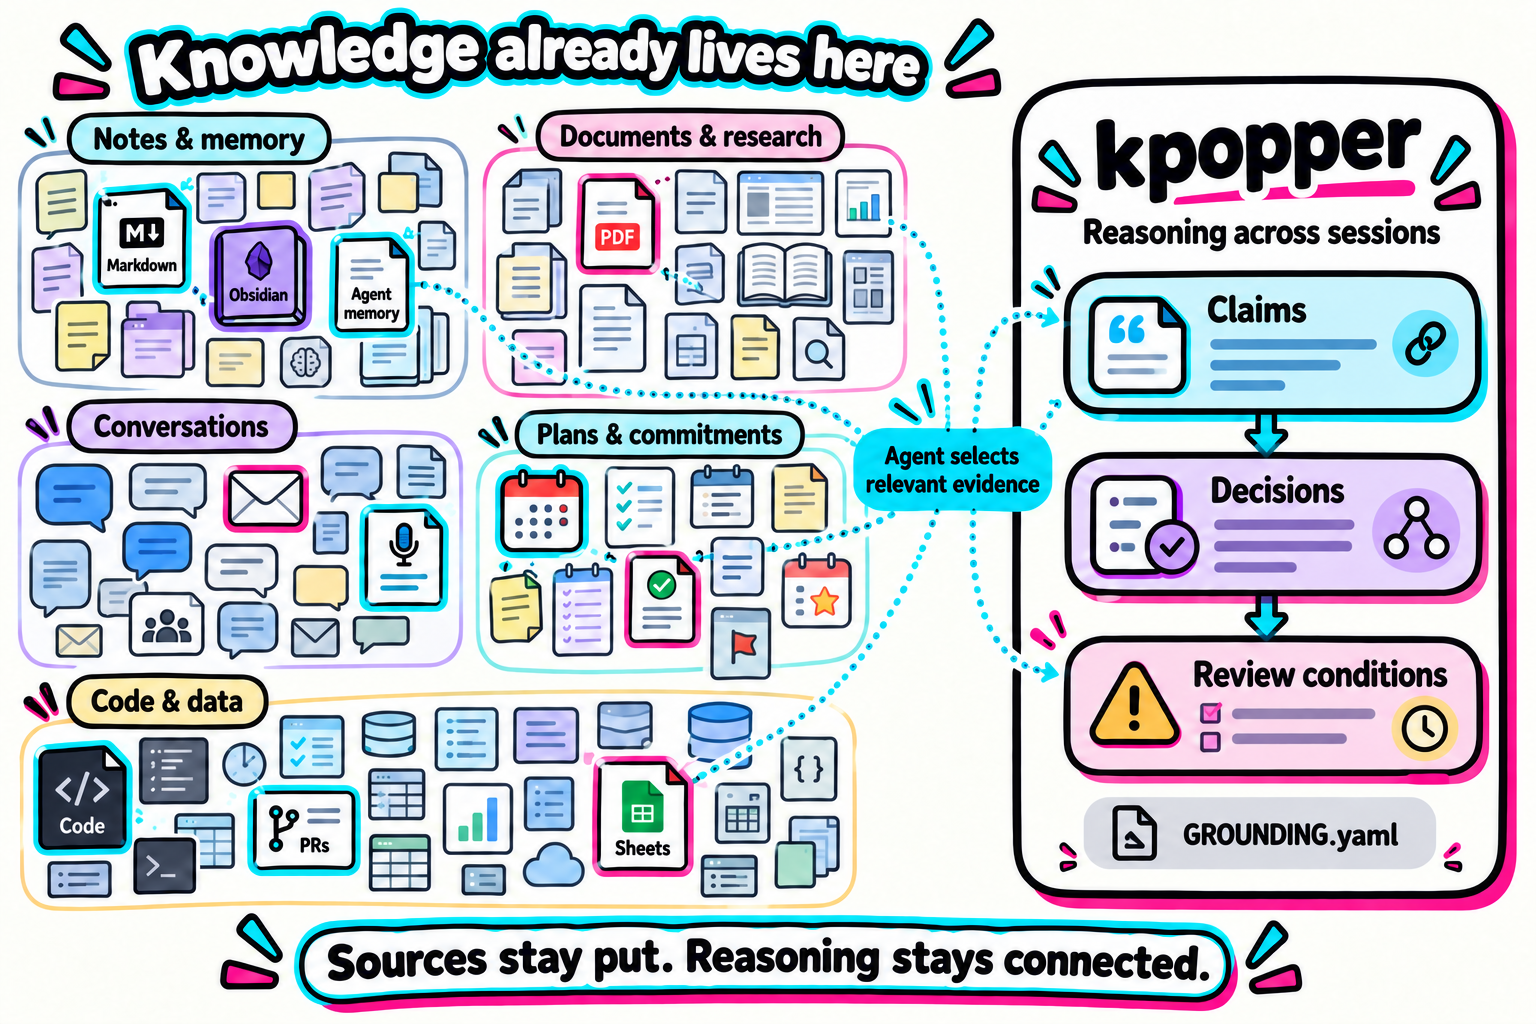
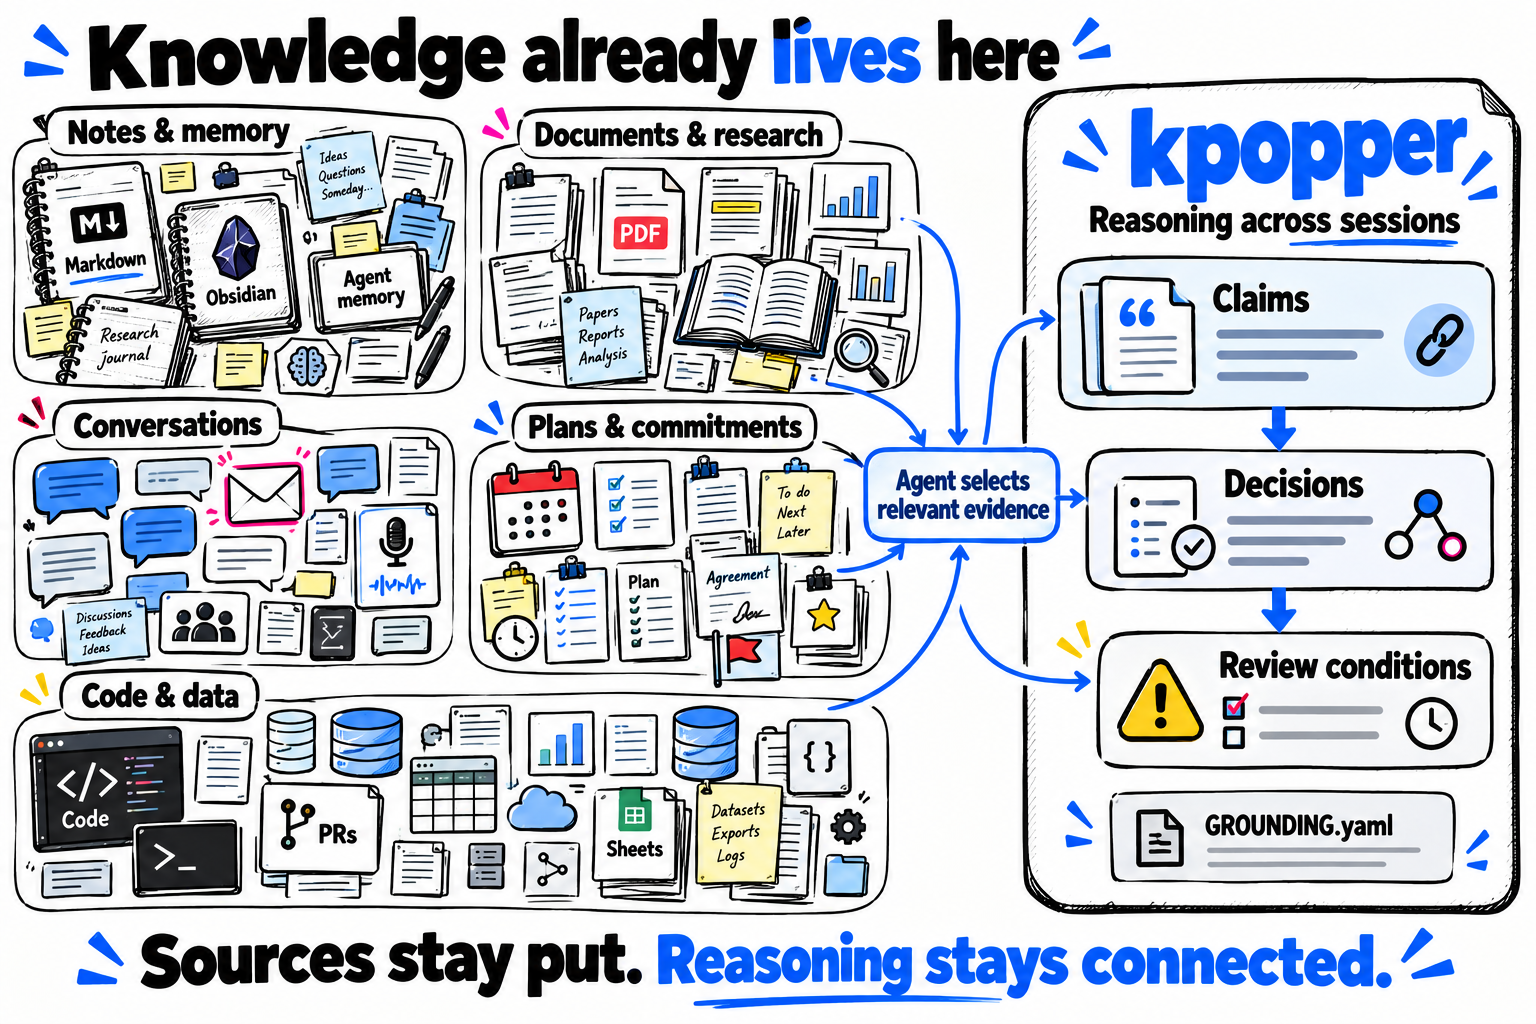
Illustrate more deterministic reasoning and refresh the knowledge map

diff --git a/assets/diagrams/README.md b/assets/diagrams/README.md
@@ -8,10 +8,45 @@ The SVGs are separate, compact **editable schematic references** for inspecting 
 relationships. They are not the source files from which the illustrated PNGs were
 rendered. Exporting a schematic should not overwrite the illustration.
 
-| Overview | Illustration | Editable schematic | What it explains |
+| Overview | Illustration | Supporting reference | What it explains |
 |---|---|---|---|
 | Conversation | [Desktop](conversation-flow.png) · [Phone](conversation-flow-mobile.png) | [Desktop](conversation-flow.svg) · [Phone](conversation-flow-mobile.svg) | An explicit report is processed separately while the main conversation continues; important findings return. |
 | Across time | [Desktop](work-across-time.png) · [Phone](work-across-time-mobile.png) | [Desktop](work-across-time.svg) · [Phone](work-across-time-mobile.svg) | Past grounds, present attention and configured future work stay connected through explicit recording of outcomes. |
+| More deterministic reasoning | [Desktop](reasoning-check.png) · [Phone](reasoning-check-mobile.png) | [Illustrated record](reasoning-check.yaml) | An agent makes the premises and condition explicit; the reader repeatedly evaluates that declared comparison. |
+
+## More deterministic reasoning
+
+The opening illustration shows the path from natural-language statements to a
+recorded comparison. **More** describes the shift of selected reasoning steps into
+explicit, repeatable checks. The agent still interprets sources and chooses the
+relevant premises and condition; the ordinary reader evaluates supported comparisons
+and follows declared dependencies. YAML holds that structure; the checker executes
+the comparison. Arbitrary formulas and prose are not automatically executable.
+
+The [pictured record](reasoning-check.yaml) is a fictional, minimal illustration.
+At its earlier review, both the file retention and the promised window were 30
+days. The recorded retention has since changed to seven; `seen` retains the earlier
+values. Source locators are omitted from this teaching excerpt. The
+[complete download example](../../examples/merge-assumptions/README.md#premature-file-deletion-consistency)
+includes source files, measurement recipes and the two-branch scenario, with longer
+entry names.
+
+From the repository root:
+
+```sh
+python3 scripts/kpopper check assets/diagrams/reasoning-check.yaml
+```
+
+The expected exit status is **1**, with this failed condition:
+
+```text
+FAIL download.promise: wrong_if holds (files.days < link.days) - broken by its own condition
+```
+
+The comparison is `7 < 30`. Repeating the check against the same record produces
+the same result. An accurate comparison still depends on the supplied readings and
+the relevance of the chosen condition. This is a demonstration of repeatable checking,
+not an evaluation of overall agent reasoning quality.
 
 ## What the illustrations preserve
 
@@ -42,7 +77,8 @@ interpretation, a delivery guarantee or unconfigured background monitoring. See
 
 ## Layout and maintenance
 
-Desktop illustrations are 1536×1024. Phone illustrations are 1024×1536 and are selected
+The time and conversation desktop illustrations are 1536×1024; the compact reasoning
+overview is 1672×941. Phone illustrations are 1024×1536 and are selected
 by the README's `picture` element at viewport widths up to 600 pixels. The time panels
 stack on a phone; the conversation keeps parallel lanes. Important wording also remains
 in the README text and image descriptions.

diff --git a/assets/README.md b/assets/README.md
@@ -34,17 +34,21 @@ agent's synthesis. See [the story index](stories/README.md).
 
 ## Process diagrams
 
-The conversation and time overviews live in `diagrams/`, with illustrated desktop
-and phone PNGs in the story series' ink style. Separate editable SVG schematics
-preserve compact maps of the process; they are not the illustration sources.
+The reasoning, conversation and time overviews live in `diagrams/`, with illustrated
+desktop and phone PNGs in the story series' ink style. The opening reasoning overview
+shows natural-language statements, their explicit YAML relationship and a repeatable
+comparison; its exact record is supplied alongside it. Separate editable SVG schematics
+preserve compact maps of the conversation and time processes; they are not the
+illustration sources.
 See [the overview index and maintenance notes](diagrams/README.md).
 
 ## Knowledge-source illustration
 
-`knowledge-sources.png` restores the detailed, playful source-map treatment: crowded
+`knowledge-sources.png` keeps the detailed, playful source-map treatment: crowded
 groups of familiar tools and materials on the left, and an ordered reasoning layer
-on the right. It retains the earlier illustration's composition and updates the
-record filename to `GROUNDING.yaml`.
+on the right. It uses the series's black ink linework, electric-blue emphasis and
+bold editorial typography while retaining the five source categories and their
+many individual objects. The reasoning record is labelled `GROUNDING.yaml`.
 
 The agent selects relevant evidence; the source files and tools remain in place.
 This is a conceptual illustration, not a screenshot or a claim to automatically

diff --git a/assets/brand-guide.md b/assets/brand-guide.md
@@ -91,8 +91,9 @@ density and visual treatment for the image's purpose.
 - The knowledge-source illustration uses a deliberately busy left side to show
   the breadth of existing tools and materials, contrasted with an ordered reasoning
   layer on the right. Its recognizable icons and many small details carry that idea.
-- Keep that illustration's richer cyan, magenta and lavender palette and lively
-  ink treatment. It does not need to imitate the process diagrams.
+- Use the series's black ink, electric blue and restrained accent colors for that
+  illustration too. Preserve its many varied source objects and the contrast in
+  density; remove the earlier neon sticker outlines and candy-colored panels.
 - At small sizes, the main contrast and direction should remain clear. Secondary
   details can reward a closer look; they do not all need equal visual prominence.
 - Existing sources remain in place. The organized layer is the selected claims,
@@ -101,6 +102,10 @@ density and visual treatment for the image's purpose.
 
 ## Diagrams and product images
 
+- "More deterministic reasoning" names a shift of selected reasoning steps into
+  explicit dependencies and repeatable checks. Show the agent's interpretation,
+  the recorded condition and its mechanical evaluation as distinct stages. The
+  opening visual demonstrates this mechanism; the following stories show its value.
 - Each explanatory image carries one question and one main relationship or change.
   Put detailed qualifications and instructions in the surrounding text.
 - Use blue for the emphasized subject or connection, black for ordinary content,

diff --git a/README.md b/README.md
@@ -21,6 +21,19 @@ reach through the record and surfaces what needs another look.
 [Capabilities](#what-you-can-do-with-kpopper) · [Record format](#the-knowledge-record) ·
 [Why the name?](#popper-give-a-conclusion-a-way-to-fail)
 
+<p align="center">
+  <a href="assets/diagrams/reasoning-check.png">
+    <picture>
+      <source media="(max-width: 600px)" srcset="assets/diagrams/reasoning-check-mobile.png">
+      <img src="assets/diagrams/reasoning-check.png" width="760" alt="More deterministic reasoning. The work says files now stay seven days, the download link promises thirty, and files should last for the promised window. An agent records the values, dependency and condition in YAML. kpopper evaluates seven less than thirty and flags the download promise. The agent interprets the words; the checker evaluates the recorded condition.">
+    </picture>
+  </a>
+</p>
+
+Parts of the reasoning become explicit dependencies and repeatable checks.
+[Inspect the illustrated record](assets/diagrams/README.md#more-deterministic-reasoning),
+then see how those checks help when work changes independently.
+
 <details>
 <summary>Contents</summary>
 
